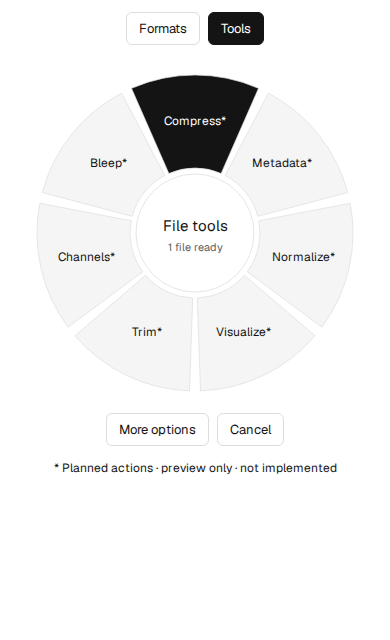
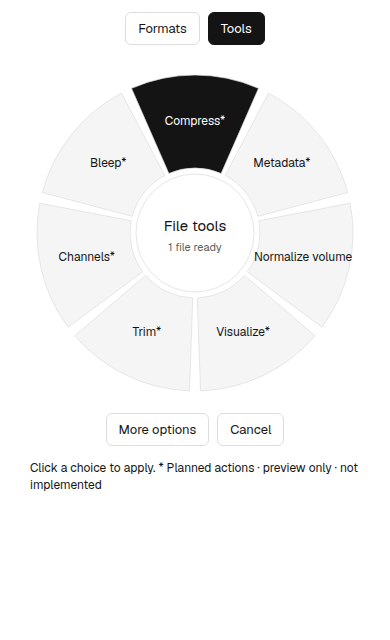
feat: add audio volume normalization tool

diff --git a/src/renderer/renderer.js b/src/renderer/renderer.js
@@ -17,7 +17,7 @@ function render() {
     const row = document.createElement('div'); row.className = 'file-row';
     const identity = document.createElement('div'); identity.className = 'file-name'; identity.textContent = file.name; identity.title = file.name;
     const meta = document.createElement('span'); meta.className = 'file-meta'; meta.textContent = `${file.category} · ${bytes(file.bytes)}`; identity.append(meta);
-    const format = document.createElement('button'); format.className = 'file-format'; format.textContent = file.operation === 'strip-metadata' ? 'Clean metadata' : file.operation === 'extract-archive' ? 'Extract archive' : file.operation === 'mute-video' ? 'Mute video' : file.target ? `→ ${formatLabel(file, file.target)}` : 'Unavailable'; format.setAttribute('aria-label', `Output format for ${file.name}`); format.disabled = busy || !!file.output || (!file.targets.length && !file.tools.length);
+    const format = document.createElement('button'); format.className = 'file-format'; format.textContent = file.operation === 'strip-metadata' ? 'Clean metadata' : file.operation === 'extract-archive' ? 'Extract archive' : file.operation === 'mute-video' ? 'Mute video' : file.operation === 'normalize-audio' ? 'Normalize volume' : file.target ? `→ ${formatLabel(file, file.target)}` : 'Unavailable'; format.setAttribute('aria-label', `Output format for ${file.name}`); format.disabled = busy || !!file.output || (!file.targets.length && !file.tools.length);
     format.onclick = () => openFormats(file); format.onkeydown = event => { if (event.key === 'Shift') { event.preventDefault(); openFormats(file); } };
     const state = document.createElement('div'); state.className = `file-state${file.error ? ' error' : ''}`;
     if (file.output) { const reveal = document.createElement('button'); reveal.textContent = 'Show file'; reveal.onclick = () => bridge.reveal(file.output).catch(error => message(error.message)); state.append(reveal); }
@@ -75,6 +75,11 @@ function openFormats(file) {
   if (file.tools.includes('mute-video')) {
     const button = document.createElement('button'); button.type = 'button'; button.textContent = 'Mute video';
     button.onclick = () => { active.operation = 'mute-video'; active.target = file.name.split('.').pop().toLowerCase(); $('#format-dialog').close(); render(); };
+    $('#format-wheel').append(button);
+  }
+  if (file.tools.includes('normalize-audio')) {
+    const button = document.createElement('button'); button.type = 'button'; button.textContent = 'Normalize volume';
+    button.onclick = () => { active.operation = 'normalize-audio'; active.target = file.name.split('.').pop().toLowerCase(); $('#format-dialog').close(); render(); };
     $('#format-wheel').append(button);
   }
   $('#format-dialog').showModal();

diff --git a/docs/CURRENT_SUPPORT.md b/docs/CURRENT_SUPPORT.md
@@ -6,7 +6,7 @@ This is the implemented scope, distinct from the reference website's 275-path re
 | --- | --- | --- | --- |
 | Images | JPG/JPEG, PNG, WebP, TIFF/TIF, AVIF, SVG, BMP, HEIC | PNG, JPG, WebP, AVIF, TIFF, BMP, PDF | One raster frame/page; metadata removed; default quality 85; optional size/quality and JPG/BMP background controls. HEIC: first decoded 8-bit image, no HDR/depth/sequence preservation |
 | Video | MP4, MOV, MKV, WebM, AVI, WMV, GIF | MP4, MOV, MKV, WebM, AVI, WMV; GIF and MP3 from video containers | Re-encodes first video/audio streams; MP3 requires an audio track; GIF input cannot produce audio. Tools wheel includes **Mute video** for non-GIF files; it stream-copies the first video stream to a separate copy with audio removed. |
-| Audio | MP3, M4A, WAV, FLAC, OGG, Opus, AIFF, WMA | Other formats in the same list | Actual FFmpeg encoding; codec defaults explicit in media adapter |
+| Audio | MP3, M4A, WAV, FLAC, OGG, Opus, AIFF, WMA | Other formats in the same list | Actual FFmpeg encoding; codec defaults explicit in media adapter. Tools wheel includes **Normalize volume**, using local FFmpeg loudness normalization and saving a separate copy. |
 | PDF | PDF | TXT, MD, DOCX, EPUB, PNG, JPG, PPTX | Text exports lose layout and require selectable text; PNG/JPG export every page at 300 DPI into a ZIP; PPTX contains rendered page images |
 | Documents | DOCX, RTF, Markdown, TXT, HTML | TXT, Markdown, HTML, DOCX, PDF, EPUB, PNG/JPG page ZIPs | DOCX/RTF PDF/page images use Office rendering when available; other exports preserve text only. Missing fonts can change layout |
 | Slides | PPT/PPTX with Office; PPTX without it | PDF and PNG/JPG page ZIPs with Office; PDF without it | Office renders real slide graphics/layout, with possible font substitution. Without Office, PPTX PDF contains text only; legacy PPT and slide image routes are unavailable |
@@ -35,7 +35,7 @@ The background drag wheel is implemented with an initial Windows/X11 hook adapte
 
 ### Editing-tool coverage
 
-Peeler currently exposes image resize/quality/background options and metadata removal, video mute, and archive extraction. The other observed Tangerine video/audio/PDF/image tools are not yet implemented. Tangerine's category showcase presents format conversions for Documents, Slides, Spreadsheets, EPUB, and Subtitles without a separate tools wheel for those categories. Peeler's conversion routes and tool/action gaps are mapped separately in the [category parity plan](TOOL_PARITY_PLAN.md).
+Peeler currently exposes image resize/quality/background options and metadata removal, video mute, audio volume normalization, and archive extraction. The other observed Tangerine video/audio/PDF/image tools are not yet implemented. Tangerine's category showcase presents format conversions for Documents, Slides, Spreadsheets, EPUB, and Subtitles without a separate tools wheel for those categories. Peeler's conversion routes and tool/action gaps are mapped separately in the [category parity plan](TOOL_PARITY_PLAN.md).
 
 ## Input bounds
 

diff --git a/docs/TOOL_PARITY_PLAN.md b/docs/TOOL_PARITY_PLAN.md
@@ -64,9 +64,9 @@ Peeler has no file-actions wheel or assigned key for one. Tangerine's Mac demo u
 
 **Tangerine tools for a selection:** Compress; Edit Metadata; Normalize Volume. Single-file trim is described as waveform/timecode-based and automatic silence removal applies to recording ends only; channel conversion supports mono/stereo and independent left/right levels; bleeping selects time ranges. Other tools depend on a single selected recording.
 
-**Peeler now:** Audio format conversion through the local FFmpeg worker. No audio editing tools are implemented.
+**Peeler now:** Audio format conversion through the local FFmpeg worker. The Tools wheel includes **Normalize Volume**, using FFmpeg loudnorm with a fixed local target and saving a separate copy.
 
-**Peeler planned:** Compression controls; metadata inspection/editing/removal; loudness normalization; waveform video; trim; channel conversion; bleep ranges. Add Tools wheel actions: **Compress**, **Metadata**, **Normalize**, **Visualize**, **Trim**, **Channels**, and **Bleep**.
+**Peeler planned:** Compression controls; metadata inspection/editing/removal; adjustable loudness controls; waveform video; trim; channel conversion; bleep ranges. Add Tools wheel actions: **Compress**, **Metadata**, **Visualize**, **Trim**, **Channels**, and **Bleep**.
 
 ### PDF
 

diff --git a/README.md b/README.md
@@ -102,13 +102,13 @@ Start dragging a file, tap the listed key, and drop it onto the wheel to stage t
 
 ![Peeler Audio format wheel](docs/assets/peeler/categories/audio-formats.png)
 
-![Peeler Audio tools wheel: planned actions](docs/assets/peeler/categories/audio-tools.png)
+![Peeler Audio tools wheel: current Normalize volume action and planned actions](docs/assets/peeler/categories/audio-tools.png)
 
 **Tangerine actions:** Shift converts among MP3, M4A, WAV, FLAC, OGG, Opus, AIFF, and WMA. Command, for one recording: Compress, Metadata, Normalize Volume, Visualize, Trim, Convert Channels, Bleep. For a selection: Compress, Metadata, Normalize Volume.
 
-**Peeler now:** Shift converts the supported audio formats. No audio editing tools are implemented.
+**Peeler now:** Shift converts the supported audio formats. Left Alt opens **Normalize volume** to create a normalized copy.
 
-**Peeler planned:** Compress, Metadata, Normalize, Visualize, Trim, Channels, and Bleep. [Details](docs/TOOL_PARITY_PLAN.md#audio)
+**Peeler planned:** Compress, Metadata, Visualize, Trim, Channels, and Bleep. [Details](docs/TOOL_PARITY_PLAN.md#audio)
 
 </details>
 

diff --git a/docs/assets/peeler/categories/README.md b/docs/assets/peeler/categories/README.md
@@ -2,4 +2,4 @@
 
 These PNGs are rendered from Peeler's own `src/renderer/wheel.html`, `wheel.js`, and `wheel.css` using sample file/menu data. They are Peeler UI previews, not Tangerine screenshots.
 
-Format wheels show the current format choices. Tools wheels list current image, video mute, and archive extraction actions plus planned actions for other file categories. An asterisk marks a roadmap concept; starred choices are not implemented and cannot be run in Peeler today. Categories with more than eight actions use a second wheel page. The sample menu bridge is mocked for rendering; no conversion or tool action is executed.
+Format wheels show the current format choices. Tools wheels list current image, video mute, audio normalization, and archive extraction actions plus planned actions for other file categories. An asterisk marks a roadmap concept; starred choices are not implemented and cannot be run in Peeler today. Categories with more than eight actions use a second wheel page. The sample menu bridge is mocked for rendering; no conversion or tool action is executed.

diff --git a/docs/ROADMAP.md b/docs/ROADMAP.md
@@ -31,7 +31,7 @@ The complete category-by-category reference actions, Peeler status, shortcuts, a
 
 - **Images:** target-size compression, metadata editing, photo adjustments, annotations, composited backgrounds, crop, permanent redaction, multi-image PDF, and collage.
 - **Video:** compression/metadata, mute, trim, crop, speed, frame export, split, join, and permanent redaction.
-- **Audio:** compression/metadata, loudness normalization, waveform video, trim, channel conversion, and bleep ranges.
+- **Audio:** compression/metadata, adjustable loudness normalization, waveform video, trim, channel conversion, and bleep ranges.
 - **PDF:** compression/metadata, split, merge, page organization, OCR, and table reconstruction.
 - **Archives:** destination selection and stronger cancellation coverage for extract-to-folder.
 - **Documents, Slides, Spreadsheets, EPUB, and Subtitles:** close remaining conversion/fidelity gaps; the reference category showcase does not display separate editing wheels for these categories.
